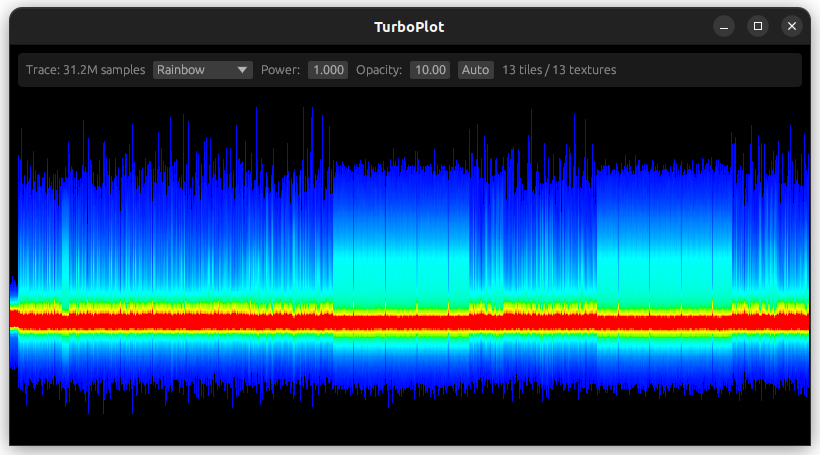
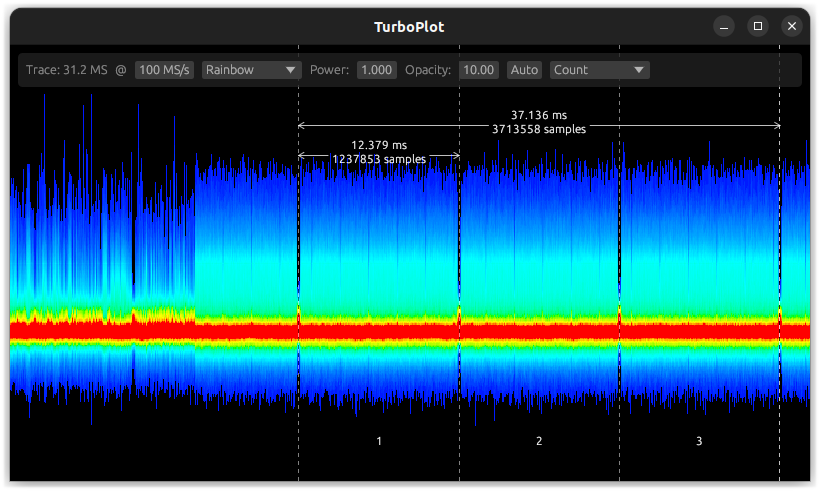
Updated readme and screenshot

diff --git a/README.md b/README.md
@@ -4,6 +4,8 @@ TurboPlot is a blazingly fast waveform renderer made for visualizing huge traces
 
 Traces are displayed using a density rendering algorithm distributed across GPU and CPU threads, enabling very smooth navigation even with traces as big as 1 Giga samples! The density rendering allows analyzing traces easily on a large scale, while also preserving single-sample peaks visible.
 
+When the sampling rate is configured, time intervals can be measured easily. The interval selection tools can also help in counting repetitive patterns in traces.
+
 ![screenshot](screenshot.png)
 
 # Usage
@@ -20,6 +22,17 @@ cargo run --release -- --gpu 0 --cpu 1 waveform.npy
 ```
 
 Note: In this mode, the user interface may still use the GPU; The trace rendering will be performed only on the CPU.
+
+Controls:
+- Horizontal panning is performed using left or right mouse buttons.
+- Vertical offset can be modified using Alt + left or right mouse drag.
+- Horizontal zoom is performed using mouse wheel.
+- Vertical zoom is performed using Alt + mouse wheel.
+- UI can be scaled up using Ctrl + =.
+
+## Limitations
+
+This tool is experimental and still in development. TurboPlot can only open numpy files (.npy) with 1D arrays. For the moment, only one trace can be displayed at a time.
 
 ## License
 
